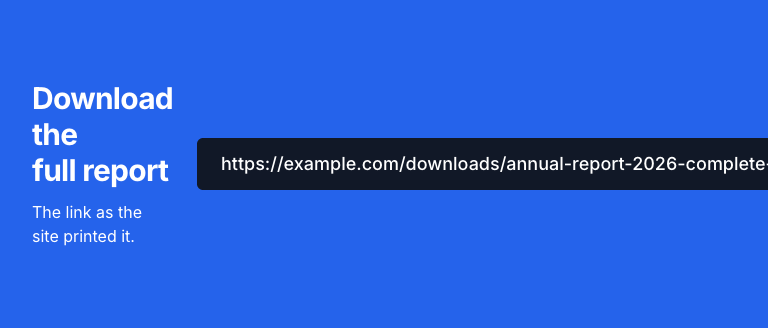
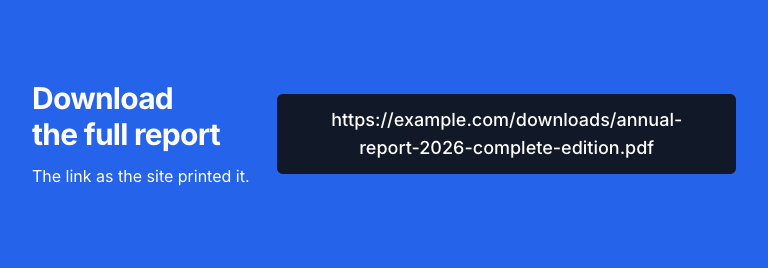
fix(astro-kit): an inline call to action's buttons wrap instead of widening the page (GENERIC) (#749)
* fix(astro-kit): an inline call to action's buttons wrap instead of widening the page (GENERIC)

The inline layout's buttons (and the button-and-note column) were shrink-0, so two long buttons
kept their full width and pushed the section past the screen. They may now narrow, and the row's
flex-wrap moves the second button under the first.

New fixture inline-two-long-actions: two long buttons. long-label @768 moves (its label wraps
inside the screen now).

* test(astro-kit): linux baselines for the cta inline wrap

From the kit-visual update run 42006591425: the new inline-two-long-actions shots and long-label @768.

Changed region(s): [[0.0312, 0.2687, 1.0, 0.6567], [0.0312, 0.6269, 0.3438, 0.7463]]

diff --git a/.changeset/cta-inline-actions-wrap.md b/.changeset/cta-inline-actions-wrap.md
@@ -1,0 +1,5 @@
+---
+"@contentrain/astro-kit": patch
+---
+
+Cta: beside the text (layout `inline`), the buttons wrap onto a second row when they do not fit, instead of keeping their full width and pushing the section wider than the screen. Two long buttons at 1280 px drew the page 1428 px wide; at 768 px a long label ran off the edge.
